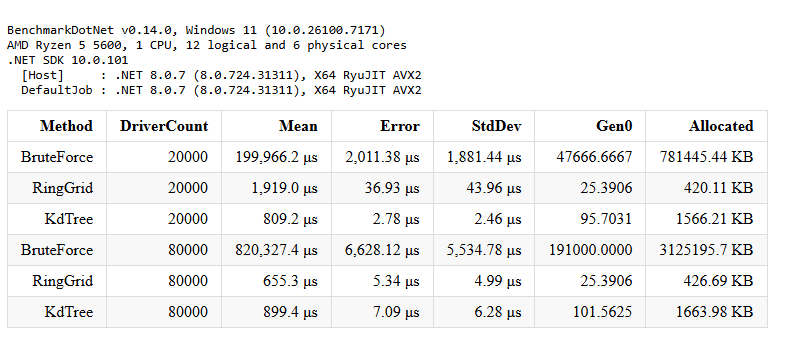
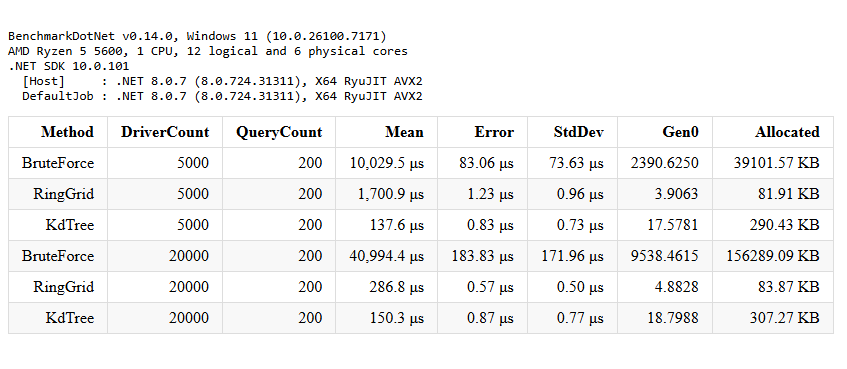
update benchmarks

diff --git a/bench/DriverMatching.Benchmarks/NearestBench.cs b/bench/DriverMatching.Benchmarks/NearestBench.cs
@@ -7,13 +7,18 @@ public class NearestBench
     private const int N = 2000;
     private const int M = 2000;
 
-    [Params(20000, 80000)]
+    // Количество водителей в системе (разные размеры для сравнения)
+    [Params(5_000, 20_000)]
     public int DriverCount;
 
-    private (int x, int y)[] _queries = Array.Empty<(int, int)>();
-    private IDriverFinder _brute = null!;
-    private IDriverFinder _ring = null!;
-    private IDriverFinder _kd = null!;
+    // Сколько запросов "найти ближайших" выполняем в одном прогоне
+    [Params(200)]
+    public int QueryCount;
+
+    private (int x, int y)[] _queries = null!;
+    private BruteForceFinder _brute = null!;
+    private RingGridFinder _ring = null!;
+    private KdTreeFinder _kd = null!;
 
     [GlobalSetup]
     public void Setup()
@@ -21,9 +26,10 @@ public class NearestBench
         var rnd = new Random(42);
 
         _brute = new BruteForceFinder(N, M);
-        _ring = new RingGridFinder(N, M);
-        _kd = new KdTreeFinder(N, M);
+        _ring  = new RingGridFinder(N, M);
+        _kd    = new KdTreeFinder(N, M);
 
+        // гарантируем уникальные клетки
         var used = new HashSet<int>(DriverCount);
 
         for (int id = 0; id < DriverCount; id++)
@@ -41,23 +47,23 @@ public class NearestBench
             _kd.Upsert(id, x, y);
         }
 
-        _queries = new (int, int)[1000];
-        for (int i = 0; i < _queries.Length; i++)
+        _queries = new (int x, int y)[QueryCount];
+        for (int i = 0; i < QueryCount; i++)
             _queries[i] = (rnd.Next(N), rnd.Next(M));
     }
 
     [Benchmark] public int BruteForce() => Run(_brute);
-    [Benchmark] public int RingGrid() => Run(_ring);
-    [Benchmark] public int KdTree() => Run(_kd);
+    [Benchmark] public int RingGrid()   => Run(_ring);
+    [Benchmark] public int KdTree()     => Run(_kd);
 
-    private int Run(IDriverFinder f)
+    private int Run(IDriverFinder finder)
     {
-        int check = 0;
-        foreach (var q in _queries)
+        int checksum = 0;
+        foreach (var (x, y) in _queries)
         {
-            var res = f.FindNearest(q.x, q.y, 5);
-            if (res.Count > 0) check ^= res[0].Id;
+            var res = finder.FindNearest(x, y, 5);
+            if (res.Count > 0) checksum ^= res[0].Id;
         }
-        return check;
+        return checksum;
     }
 }

diff --git a/bench/DriverMatching.Benchmarks/Program.cs b/bench/DriverMatching.Benchmarks/Program.cs
@@ -1,3 +1,9 @@
 using BenchmarkDotNet.Running;
 
-BenchmarkRunner.Run<NearestBench>();
+public static class Program
+{
+    public static void Main(string[] args)
+    {
+        BenchmarkRunner.Run<NearestBench>();
+    }
+}
